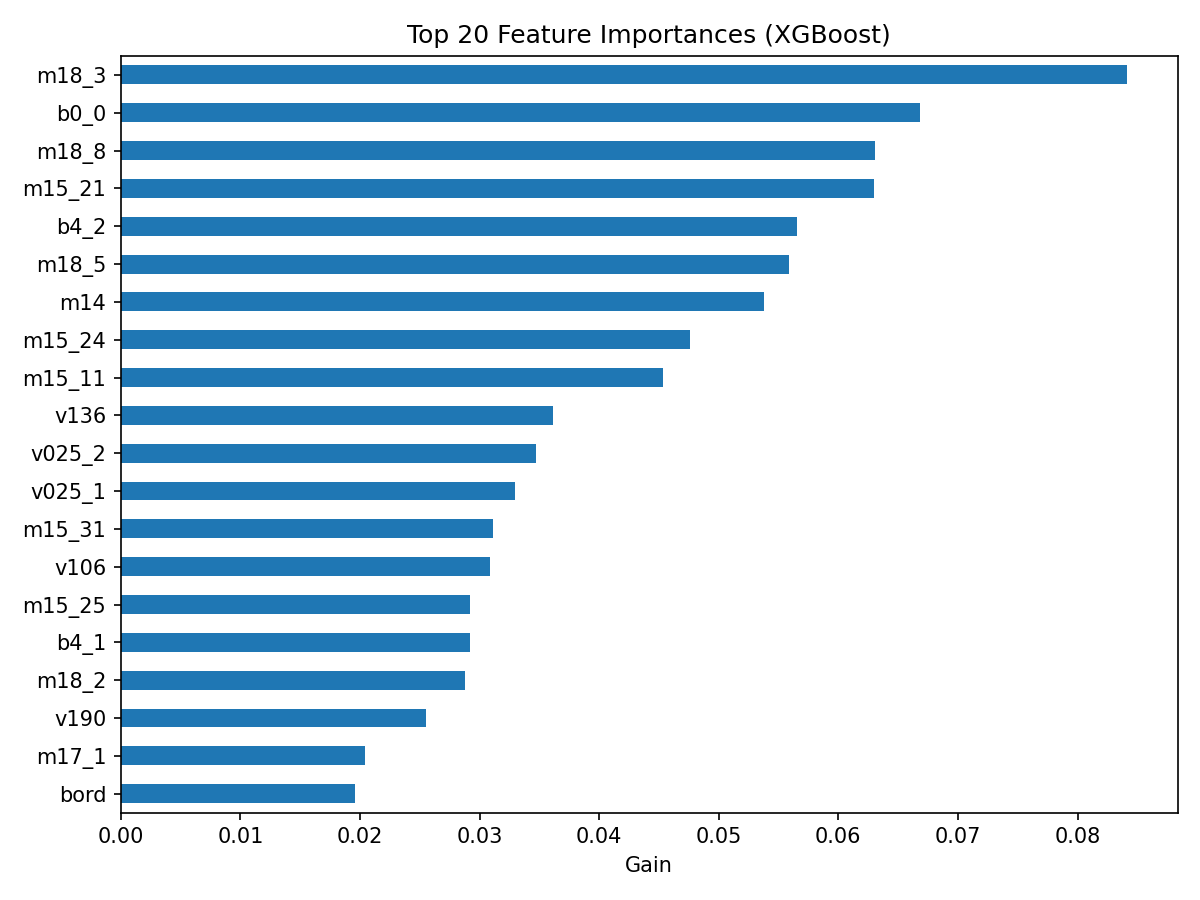
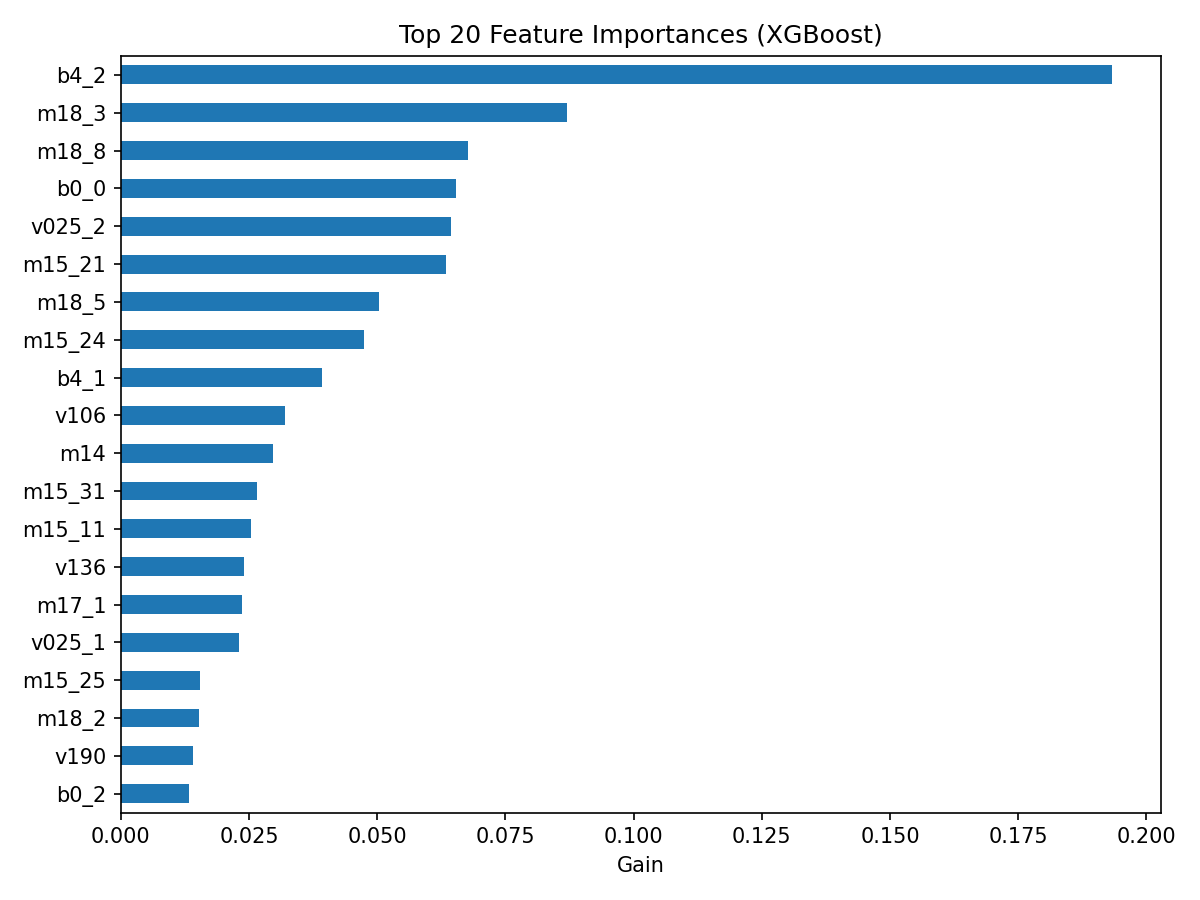
Fixed Model

diff --git a/frontend/src/components/RiskForm.jsx b/frontend/src/components/RiskForm.jsx
@@ -79,17 +79,30 @@ const RiskForm = () => {
   v190: "",
   m14: "",
   bord: "",
+  m19: "",
+  low_birth_weight: 0,
 });
 
   const [loading, setLoading] = useState(false);
   const [error, setError] = useState(null);
 
-  const handleChange = (e) => {
-    setFormData({
-      ...formData,
-      [e.target.name]: Number(e.target.value),
-    });
+const handleChange = (e) => {
+  const name = e.target.name;
+  const value = Number(e.target.value);
+
+  let updatedData = {
+    ...formData,
+    [name]: value,
   };
+
+  // Automatically derive low_birth_weight
+  if (name === "m19") {
+    updatedData.low_birth_weight =
+      value > 0 && value < 2500 ? 1 : 0;
+  }
+
+  setFormData(updatedData);
+};
 
   const handleSubmit = async () => {
     setLoading(true);
@@ -182,7 +195,15 @@ localStorage.setItem(
     ))}
   </select>
 </Field>
-
+<Field label="Birth Weight (grams)">
+  <input
+    type="number"
+    name="m19"
+    className="input"
+    placeholder="e.g. 3200"
+    onChange={handleChange}
+  />
+</Field>
 <Field label="Place of Delivery">
   <select name="m15" onChange={handleChange} className="input">
     <option value="">Select</option>

diff --git a/backend/model.py b/backend/model.py
@@ -34,20 +34,36 @@ data["b7"] = pd.to_numeric(data["b7"], errors='coerce')
 print(data["m18"].value_counts().sort_index())
 # Infant mortality: child died before 12 months
 data['infant_mortality'] = ((data["b5"] == 0) & (data["b7"] < 12)).astype(int)
-
+print(data["b0"].value_counts().sort_index())
+print(
+    data.groupby("b0")["infant_mortality"]
+        .mean()
+)
 # ── Clean m19 (actual birth weight in grams) ──────────────────────────
 # DHS sentinel codes 9996/9997/9998 = "don't know / missing" — null them out
 data["m19"] = pd.to_numeric(data["m19"], errors='coerce')
 data["m19"] = data["m19"].replace({9996: np.nan, 9997: np.nan, 9998: np.nan})
-
-# Derived clinical feature: low birth weight (< 2500 g) — strong mortality predictor
-data["low_birth_weight"] = (data["m19"] < 2500).astype('Int8')  # NaN-safe
-
+print(data["m19"].isna().mean())
+data["low_birth_weight"] = np.where(
+    data["m19"].isna(),
+    np.nan,
+    (data["m19"] < 2500).astype(int)
+)
 print(f"Infant mortality cases : {data['infant_mortality'].sum()}")
 print(f"Total records          : {len(data)}")
 print(f"Mortality rate         : {data['infant_mortality'].mean()*100:.2f}%")
-print(f"Low birth weight cases : {data['low_birth_weight'].sum()}\n")
 
+print(
+    data.groupby("low_birth_weight")
+        ["infant_mortality"]
+        .mean()
+)
+print(
+    data.groupby("m14")
+        ["infant_mortality"]
+        .mean()
+        .head(15)
+)
 # ─────────────────────────────────────────────
 # 2. FEATURE SELECTION
 # ─────────────────────────────────────────────
@@ -66,17 +82,19 @@ cols = [
     "m14",             # ANC visits
     "bord",            # Birth order
     "m19",             # Actual birth weight (grams)  ← NEW
-    "low_birth_weight" # Derived: LBW flag            ← NEW
 ]
 
 df_model = data[cols + ["infant_mortality"]].copy()
 
-# ─────────────────────────────────────────────
-# 3. PREPROCESSING
-# ─────────────────────────────────────────────
+
 categorical_cols = ['b0', 'b4', 'm18', 'm15', 'v025', 'm17']
-numeric_cols     = ['b11', 'v012', 'v136', 'v106', 'v190', 'm14', 'bord',
-                    'm19', 'low_birth_weight']
+numeric_cols     = ['b11', 'v012', 'v106', 'v190', 'm14', 'bord','v136',
+                    'm19']
+print(
+    data.groupby("v136")["infant_mortality"]
+        .agg(["count","sum","mean"])
+        .head(10)
+)
 
 df_model = pd.get_dummies(df_model, columns=categorical_cols, drop_first=False)
 df_model[numeric_cols] = df_model[numeric_cols].apply(pd.to_numeric, errors='coerce')
@@ -86,11 +104,7 @@ df_model[bool_cols] = df_model[bool_cols].astype(int)
 
 X = df_model.drop('infant_mortality', axis=1)
 Y = df_model["infant_mortality"]
-
-# ─────────────────────────────────────────────
-# 4. THREE-WAY SPLIT  (train / val / test)
-#    Val used for threshold search — test never touched until final eval
-# ─────────────────────────────────────────────
+print(data.groupby("m18")["infant_mortality"].mean())
 X_temp, X_test, y_temp, y_test = train_test_split(
     X, Y, test_size=0.15, stratify=Y, random_state=42
 )
@@ -100,18 +114,11 @@ X_train, X_val, y_train, y_val = train_test_split(
 
 print(f"Train : {len(X_train)}  |  Val : {len(X_val)}  |  Test : {len(X_test)}\n")
 
-# ─────────────────────────────────────────────
-# 5. IMPUTATION  (fit on train only — no leakage)
-# ─────────────────────────────────────────────
 imputer = SimpleImputer(strategy='median')
 X_train_imp = pd.DataFrame(imputer.fit_transform(X_train), columns=X_train.columns)
 X_val_imp   = pd.DataFrame(imputer.transform(X_val),       columns=X_val.columns)
 X_test_imp  = pd.DataFrame(imputer.transform(X_test),      columns=X_test.columns)
 
-# ─────────────────────────────────────────────
-# 6. MODERATE SMOTE
-#    28:1 natural ratio → target ~5:1 (minority = 20% of majority)
-# ─────────────────────────────────────────────
 natural_ratio = (y_train == 1).sum() / (y_train == 0).sum()
 smote_ratio   = min(0.20, natural_ratio * 3)
 
@@ -123,10 +130,6 @@ print(f"  Survival : {(y_train_sm==0).sum()}")
 print(f"  Mortality: {(y_train_sm==1).sum()}")
 print(f"  Ratio    : {(y_train_sm==0).sum()/(y_train_sm==1).sum():.1f}:1\n")
 
-# ─────────────────────────────────────────────
-# 7. OPTUNA HYPERPARAMETER SEARCH
-#    Evaluated on val set — no test leakage
-# ─────────────────────────────────────────────
 IMBALANCE_RATIO = (y_train_sm == 0).sum() / (y_train_sm == 1).sum()
 
 def xgb_objective(trial):

diff --git a/backend/app.py b/backend/app.py
@@ -17,14 +17,13 @@ from reportlab.lib.enums import TA_CENTER, TA_LEFT, TA_RIGHT
 # Load model and features
 model = joblib.load('./infant_mortality_model.pkl')
 features = joblib.load('./model_features.pkl')
-
 # Load calibrator and optimal threshold for handling class imbalance
 try:
     calibrator = joblib.load('./probability_calibrator.pkl')
     optimal_threshold = joblib.load('./optimal_threshold.pkl')
-    print(f"✓ Loaded calibrator and optimal threshold: {optimal_threshold:.2f}")
+    print(f"Loaded calibrator and optimal threshold: {optimal_threshold:.2f}")
 except FileNotFoundError:
-    print("⚠ Calibrator or threshold not found. Using raw probabilities and default threshold (0.5)")
+    print("Calibrator or threshold not found. Using raw probabilities and default threshold (0.5)")
     calibrator = None
     optimal_threshold = 0.5
 class PredictionRequest(BaseModel):
@@ -41,6 +40,8 @@ class PredictionRequest(BaseModel):
     v190: int
     m14: int
     bord: int
+    m19:int
+    low_birth_weight: int
 # Initialize SHAP explainer
 explainer = shap.TreeExplainer(model)
 latest_prediction={}
@@ -58,7 +59,9 @@ FEATURE_MAP = {
     "v106": "Mother's Education",
     "v190": "Wealth Index",
     "m14": "ANC Visits",
-    "bord": "Birth Order"
+    "bord": "Birth Order",
+    "m19": "Birth Weight",
+    "low": "Low Birth Weight"
 }
 # Create FastAPI app
 app = FastAPI(title='Infant Mortality Predictor')
@@ -79,12 +82,11 @@ def home():
 def predict(data: PredictionRequest):
 
     # Convert input to DataFrame
-    raw_df = pd.DataFrame([data.model_dump()])
-
+    raw_df = pd.DataFrame([data.model_dump()]) 
     # One-hot encoding
     df = pd.get_dummies(
         raw_df,
-        columns=["b0", "b4", "m18", "m15", "v025", "m17"],
+        columns=["b0", "b4", "m18", "m15", "v025", "m17" ],
         drop_first=False
     )
 
@@ -97,7 +99,7 @@ def predict(data: PredictionRequest):
 
     # Match training feature order
     df = df[features]
-
+    print(df.T)
     # Prediction
     raw_score = float(model.predict_proba(df)[0][1])
 
@@ -106,7 +108,18 @@ def predict(data: PredictionRequest):
         risk_of_death = float(calibrator.predict_proba(df)[0][1])
     else:
         risk_of_death = raw_score
+    raw_prob = float(model.predict_proba(df)[0][1])
 
+    if calibrator is not None:
+        calibrated_prob = float(
+            calibrator.predict_proba(df)[0][1]
+        )
+    else:
+        calibrated_prob = raw_prob
+
+    print("RAW PROBABILITY:", raw_prob)
+    print("CALIBRATED PROBABILITY:", calibrated_prob)
+    
     # Three-tier risk classification using rare-event thresholds
     if risk_of_death < 0.05:
         prediction = "Low Risk"

diff --git a/backend/test_cases.py b/backend/test_cases.py
@@ -17,7 +17,9 @@ low_risk_case = {
     "v106": 2,         # Secondary education or higher
     "v190": 3,         # Higher wealth index
     "m14": 4,          # Multiple ANC visits
-    "bord": 2          # 2nd or 3rd birth (not first)
+    "bord": 2,         # 2nd or 3rd birth (not first)
+    "m19": 3200,       # Birth weight in grams
+    "low_birth_weight": 0
 }
 
 # Test Case 2: High Risk Profile
@@ -35,7 +37,9 @@ high_risk_case = {
     "v106": 0,         # No education or primary only
     "v190": 0,         # Lowest wealth index
     "m14": 0,          # No ANC visits
-    "bord": 1          # First birth
+    "bord": 1,         # First birth
+    "m19": 2000,       # Low birth weight in grams
+    "low_birth_weight": 1
 }
 
 # Test Case 3: Mixed Risk - Teenage Mother with Good Support
@@ -52,7 +56,9 @@ mixed_case_1 = {
     "v106": 1,         # Primary education
     "v190": 2,         # Medium wealth
     "m14": 2,          # Some ANC visits
-    "bord": 1          # First birth
+    "bord": 1,         # First birth
+    "m19": 2800,
+    "low_birth_weight": 0
 }
 
 # Test Case 4: Older Mother, Multiparous (Multiple births)
@@ -69,7 +75,9 @@ mixed_case_2 = {
     "v106": 2,         # Secondary/higher education
     "v190": 2,         # Medium-high wealth
     "m14": 4,          # Good ANC visits
-    "bord": 4          # 4th birth
+    "bord": 4,         # 4th birth
+    "m19": 3500,
+    "low_birth_weight": 0
 }
 
 # Test Case 5: Minimal Healthcare Access
@@ -86,7 +94,9 @@ high_risk_case_2 = {
     "v106": 0,         # No/minimal education
     "v190": 0,         # Poorest
     "m14": 0,          # No antenatal care
-    "bord": 1          # First birth
+    "bord": 1,         # First birth
+    "m19": 1800,
+    "low_birth_weight": 1
 }
 
 # Test Case 6: Well-Resourced, Healthy Profile
@@ -103,7 +113,9 @@ optimal_case = {
     "v106": 3,         # Higher education (assumed coding)
     "v190": 4,         # Highest wealth (if scale 0-4)
     "m14": 4,          # Full ANC visits
-    "bord": 2          # Not first birth
+    "bord": 2,         # Not first birth
+    "m19": 3300,
+    "low_birth_weight": 0
 }
 
 # Test Cases Dictionary
